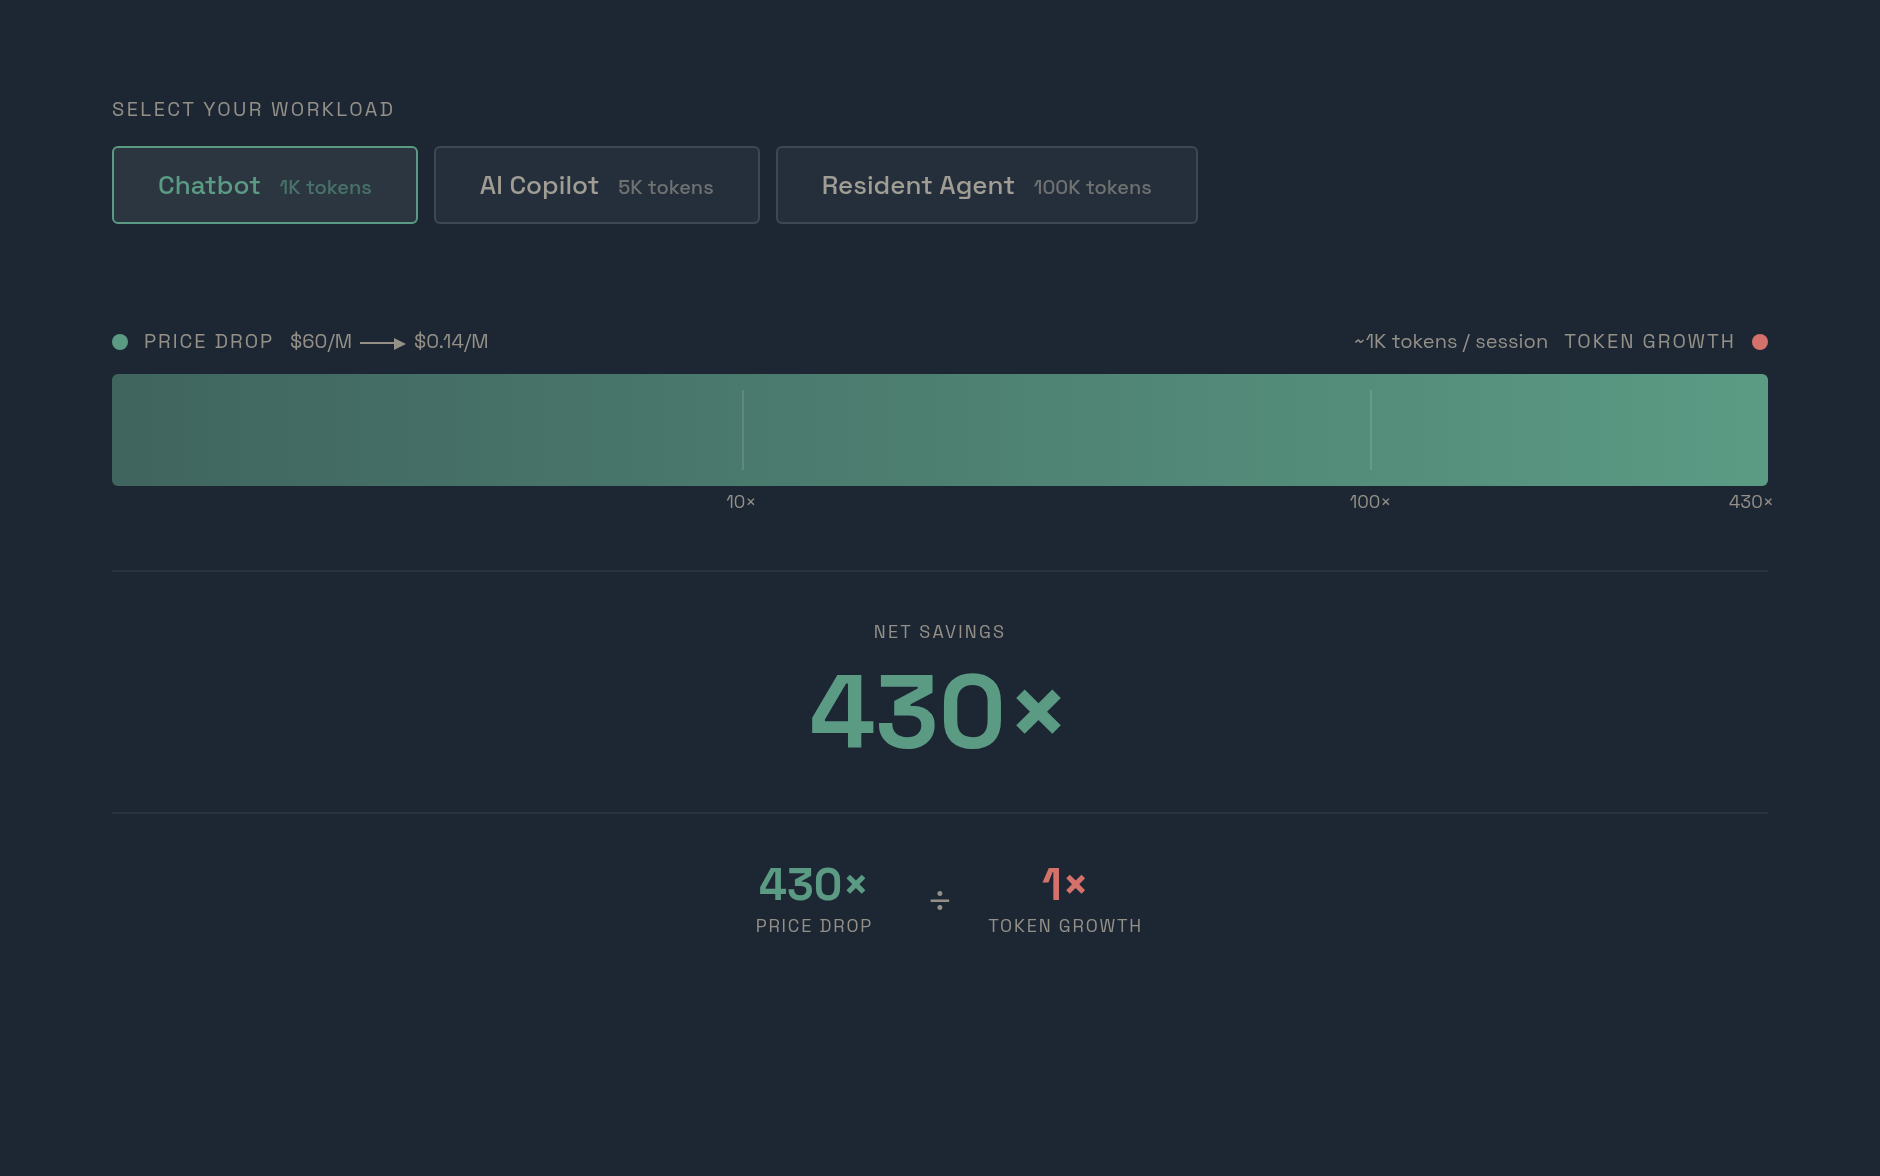
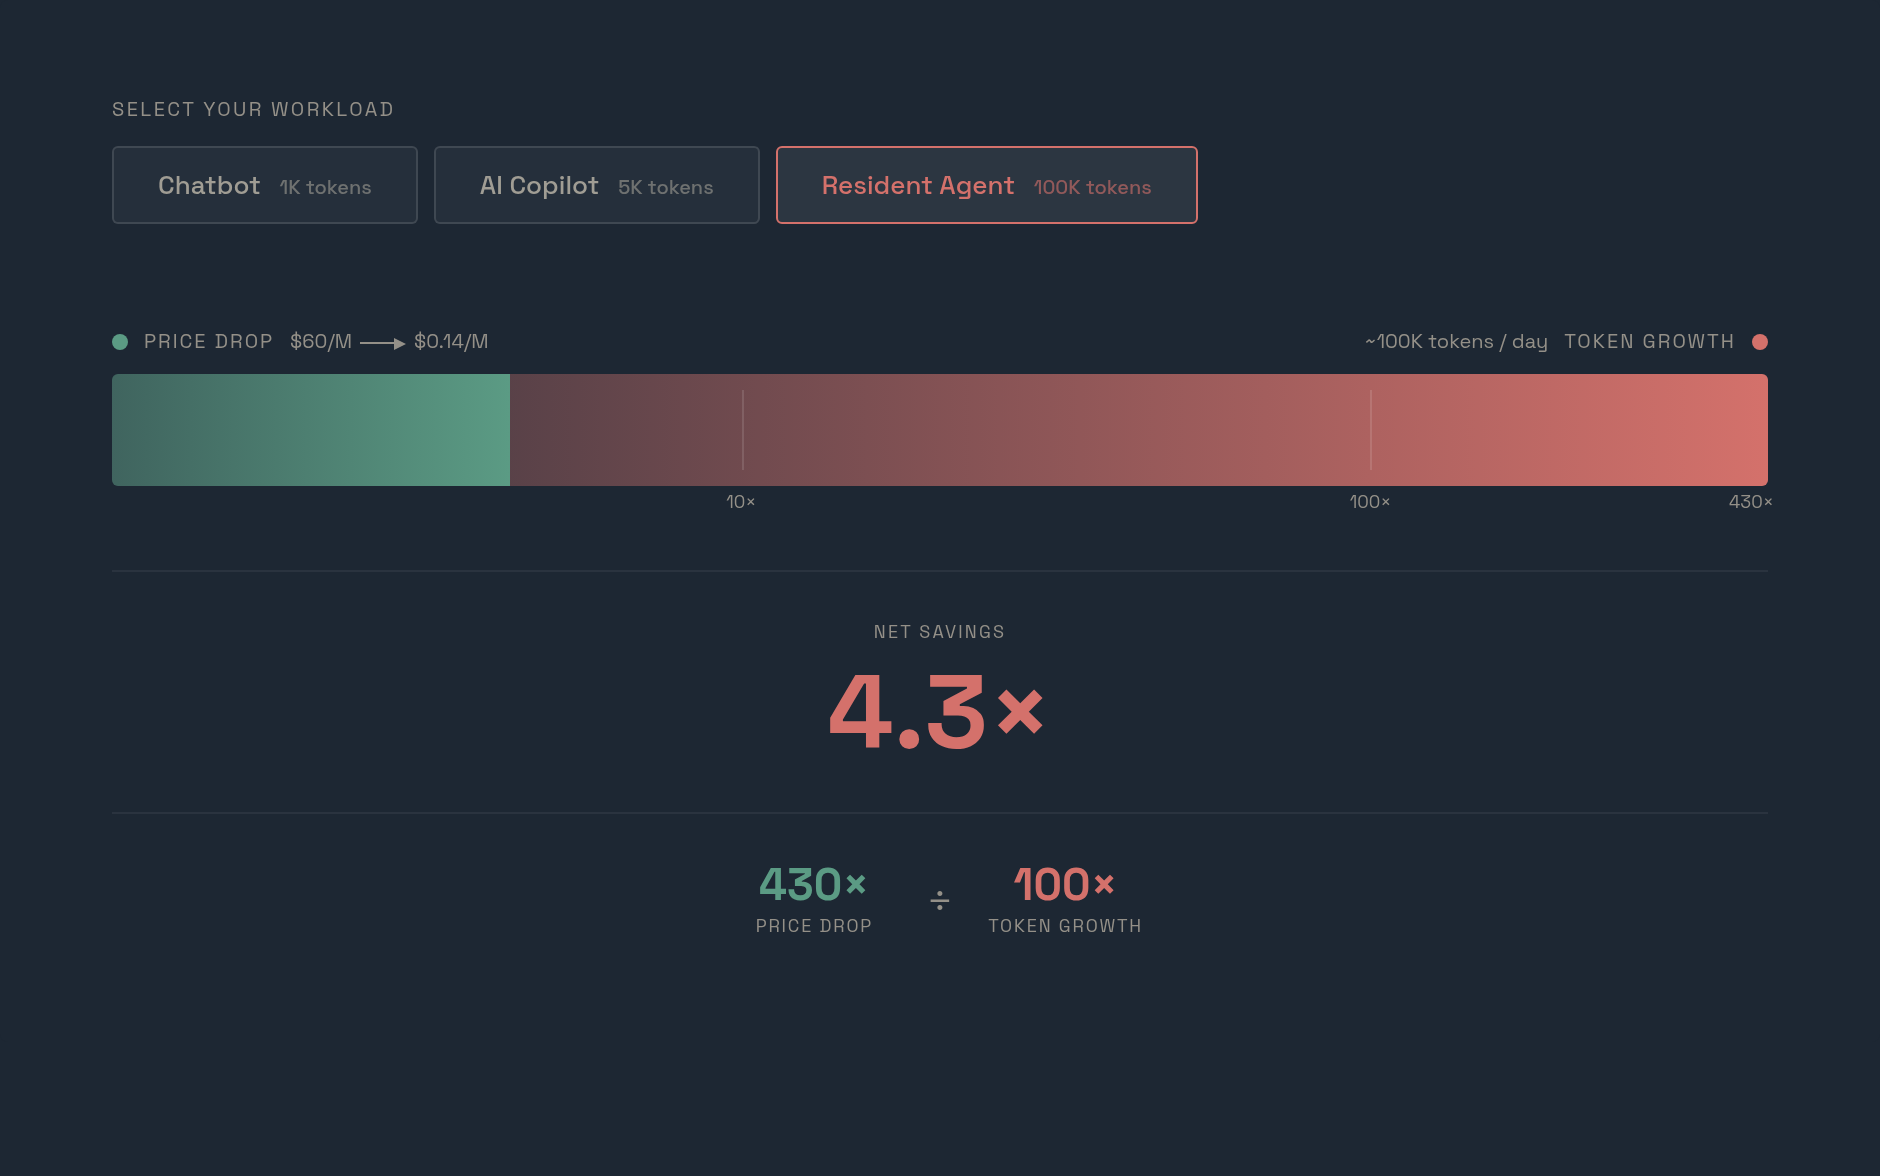
design(inference-trap): open on the thesis state, not the optimistic one
The viz loaded on Chatbot (430x, full green) -- the one state that
contradicts the piece: a non-clicker left thinking they keep all 430x.
Default to Resident Agent instead, so the page opens on the payoff
(net savings 4.3x) with the bar eroding from full green into red on load.
The selector now reads as 'go check the lighter workloads'; non-clickers
get the right takeaway; the thumbnail shows the trap, not the misdirection.

Recaptured thumbnail + OG to match.

diff --git a/src/projects/inference-trap.html b/src/projects/inference-trap.html
@@ -335,13 +335,13 @@
 
     <div class="selector-label">Select your workload</div>
     <div class="workload-buttons" role="group" aria-label="Workload type">
-      <button class="wl-btn active" data-idx="0" style="--btn-clr: var(--clr-green)" aria-pressed="true">
+      <button class="wl-btn" data-idx="0" style="--btn-clr: var(--clr-green)" aria-pressed="false">
         Chatbot <span class="wl-tokens">1K tokens</span>
       </button>
       <button class="wl-btn" data-idx="1" style="--btn-clr: var(--clr-amber)" aria-pressed="false">
         AI Copilot <span class="wl-tokens">5K tokens</span>
       </button>
-      <button class="wl-btn" data-idx="2" style="--btn-clr: var(--clr-red)" aria-pressed="false">
+      <button class="wl-btn active" data-idx="2" style="--btn-clr: var(--clr-red)" aria-pressed="true">
         Resident Agent <span class="wl-tokens">100K tokens</span>
       </button>
     </div>
@@ -357,7 +357,7 @@
           <div style="font-size:10px; color:var(--viz-muted);">$60/M<span class="arr"></span>$0.14/M</div>
         </div>
         <div class="bar-header-right">
-          <div style="font-size:10px; color:var(--viz-muted);" id="token-range">1K tokens / task</div>
+          <div style="font-size:10px; color:var(--viz-muted);" id="token-range">~100K tokens / day</div>
           <div class="force-name">Token growth</div>
           <div class="force-dot" style="background: var(--clr-red)"></div>
         </div>
@@ -380,7 +380,7 @@
       <!-- Net result -->
       <div class="net-center">
         <div class="net-label">Net savings</div>
-        <div class="net-value" id="net-value">430×</div>
+        <div class="net-value" id="net-value" style="color: var(--clr-red)">4.3×</div>
       </div>
 
     </div>
@@ -392,7 +392,7 @@
       </div>
       <div class="eq-op">&divide;</div>
       <div class="eq-item">
-        <div class="eq-val" style="color: var(--clr-red)" id="eq-token-ratio">1×</div>
+        <div class="eq-val" style="color: var(--clr-red)" id="eq-token-ratio">100×</div>
         <div class="eq-lbl">token growth</div>
       </div>
     </div>
@@ -454,7 +454,7 @@
   var buttons     = document.querySelectorAll('.wl-btn');
   var liveEl      = document.getElementById('wl-live');
 
-  var active = 0;
+  var active = 2;
 
   function fmtSavings(n) {
     if (n >= 100) return Math.round(n) + '×';
@@ -514,15 +514,16 @@
     });
   });
 
-  // On load: set text immediately, then animate fills in
-  netValue.textContent = '430×';
-  netValue.style.color = WORKLOADS[0].color;
-  tokenRange.textContent = WORKLOADS[0].tokenRange;
-  eqTokenRatio.textContent = '1×';
+  // On load: set readouts to the active workload immediately, then animate
+  // the bar eroding from full savings down into the active (resident) state.
+  netValue.textContent = fmtSavings(WORKLOADS[active].savings);
+  netValue.style.color = WORKLOADS[active].color;
+  tokenRange.textContent = WORKLOADS[active].tokenRange;
+  eqTokenRatio.textContent = WORKLOADS[active].tokenRatio + '×';
 
   requestAnimationFrame(function () {
     requestAnimationFrame(function () {
-      render(0, true);
+      render(active, true);
     });
   });
 